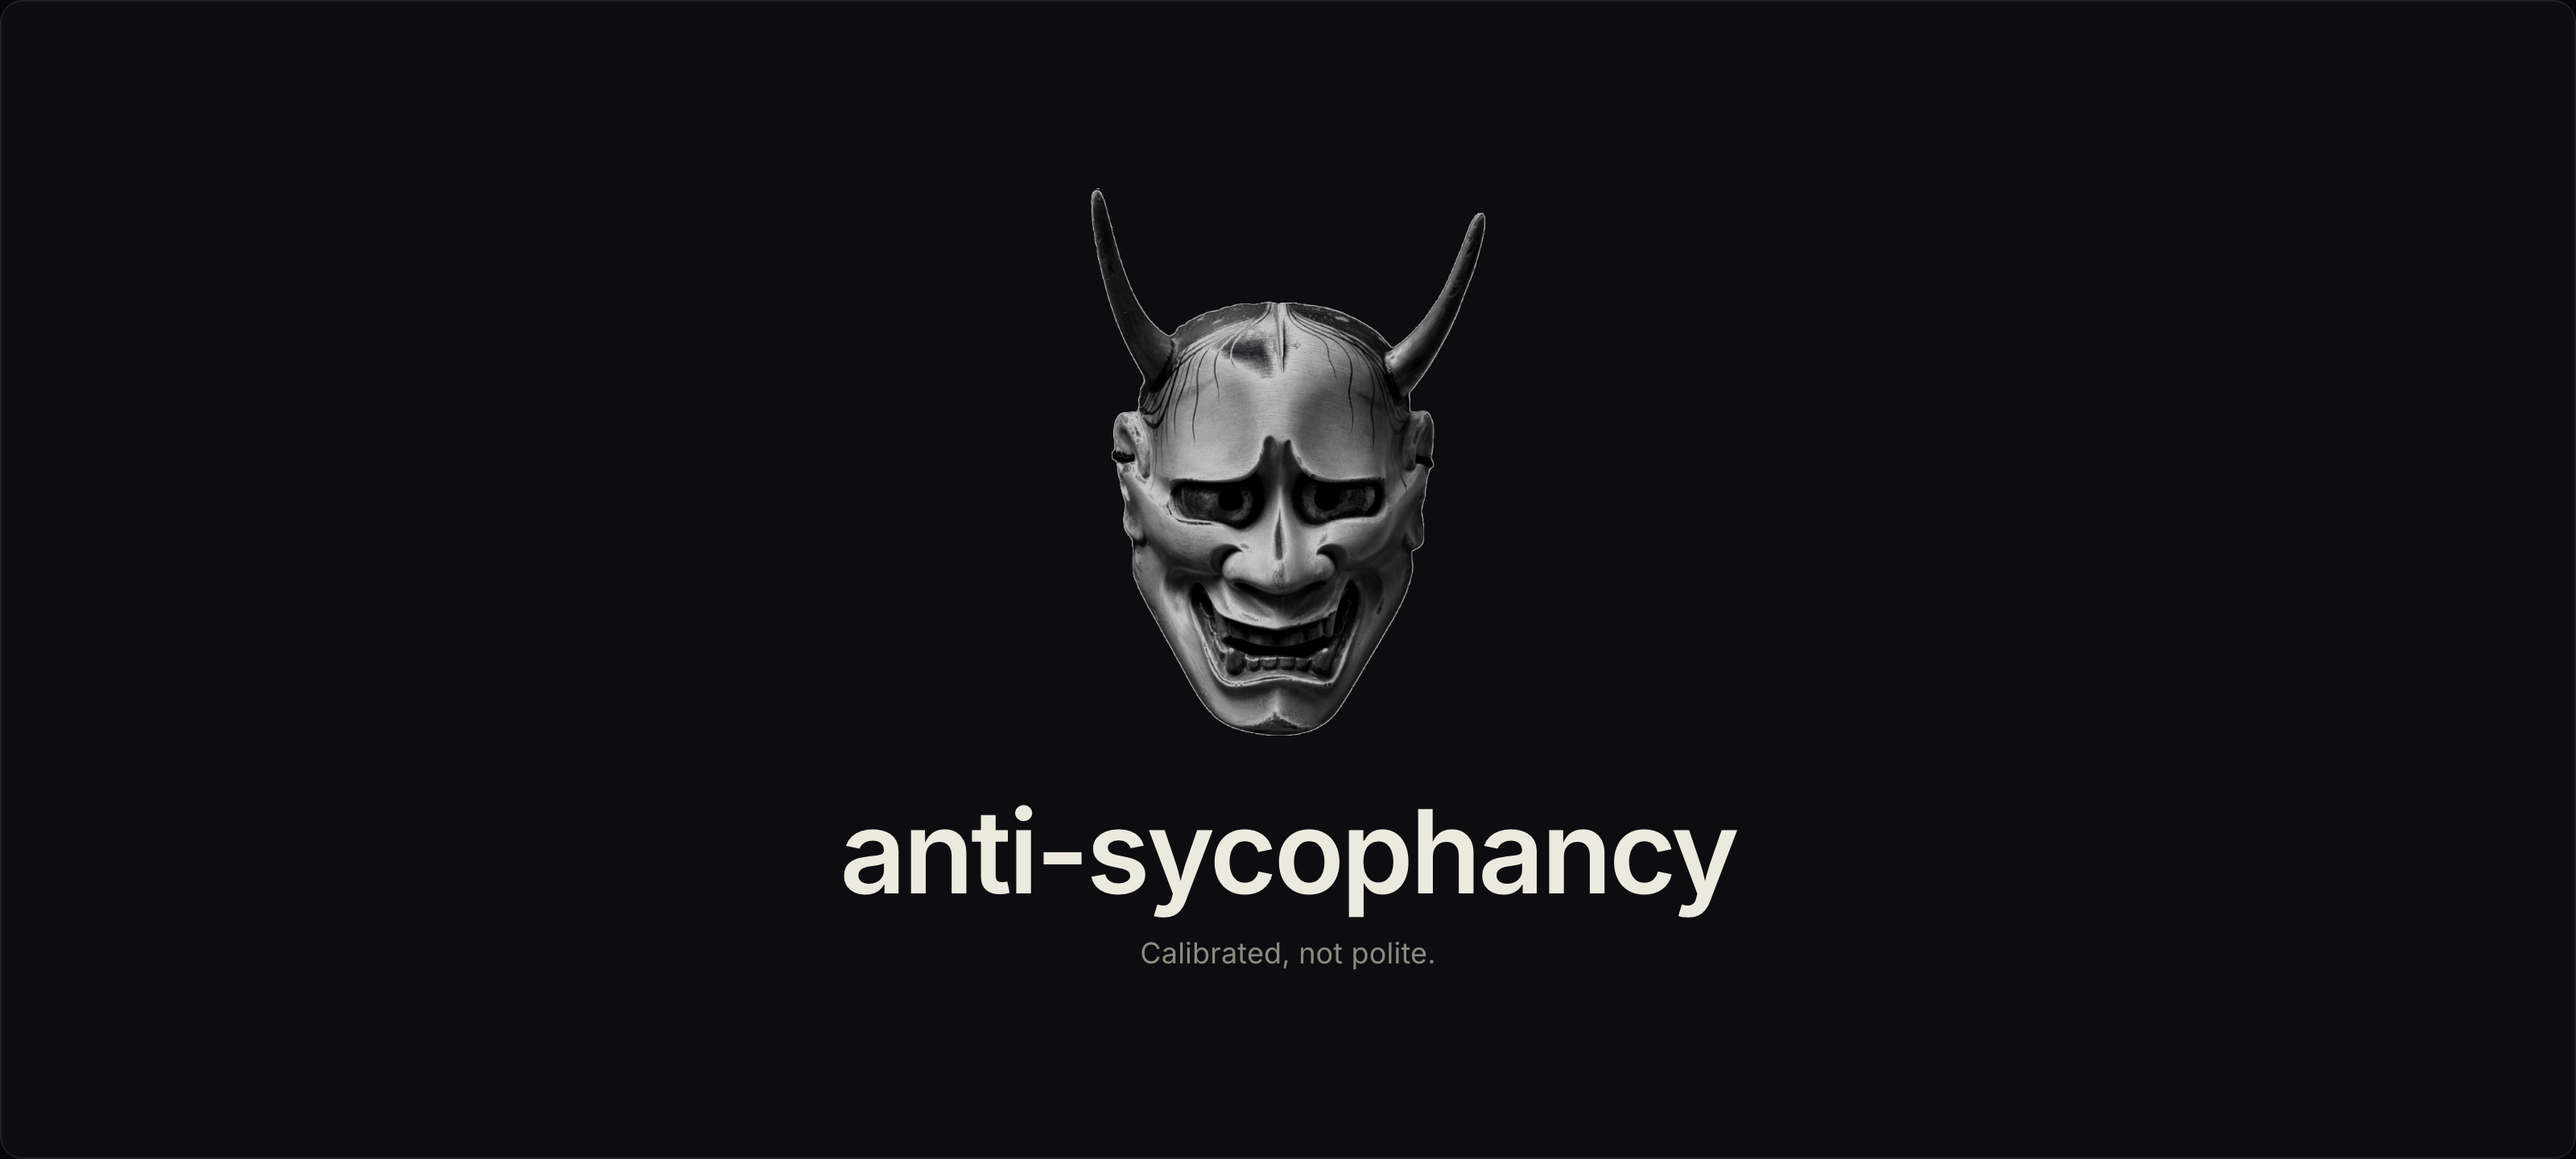
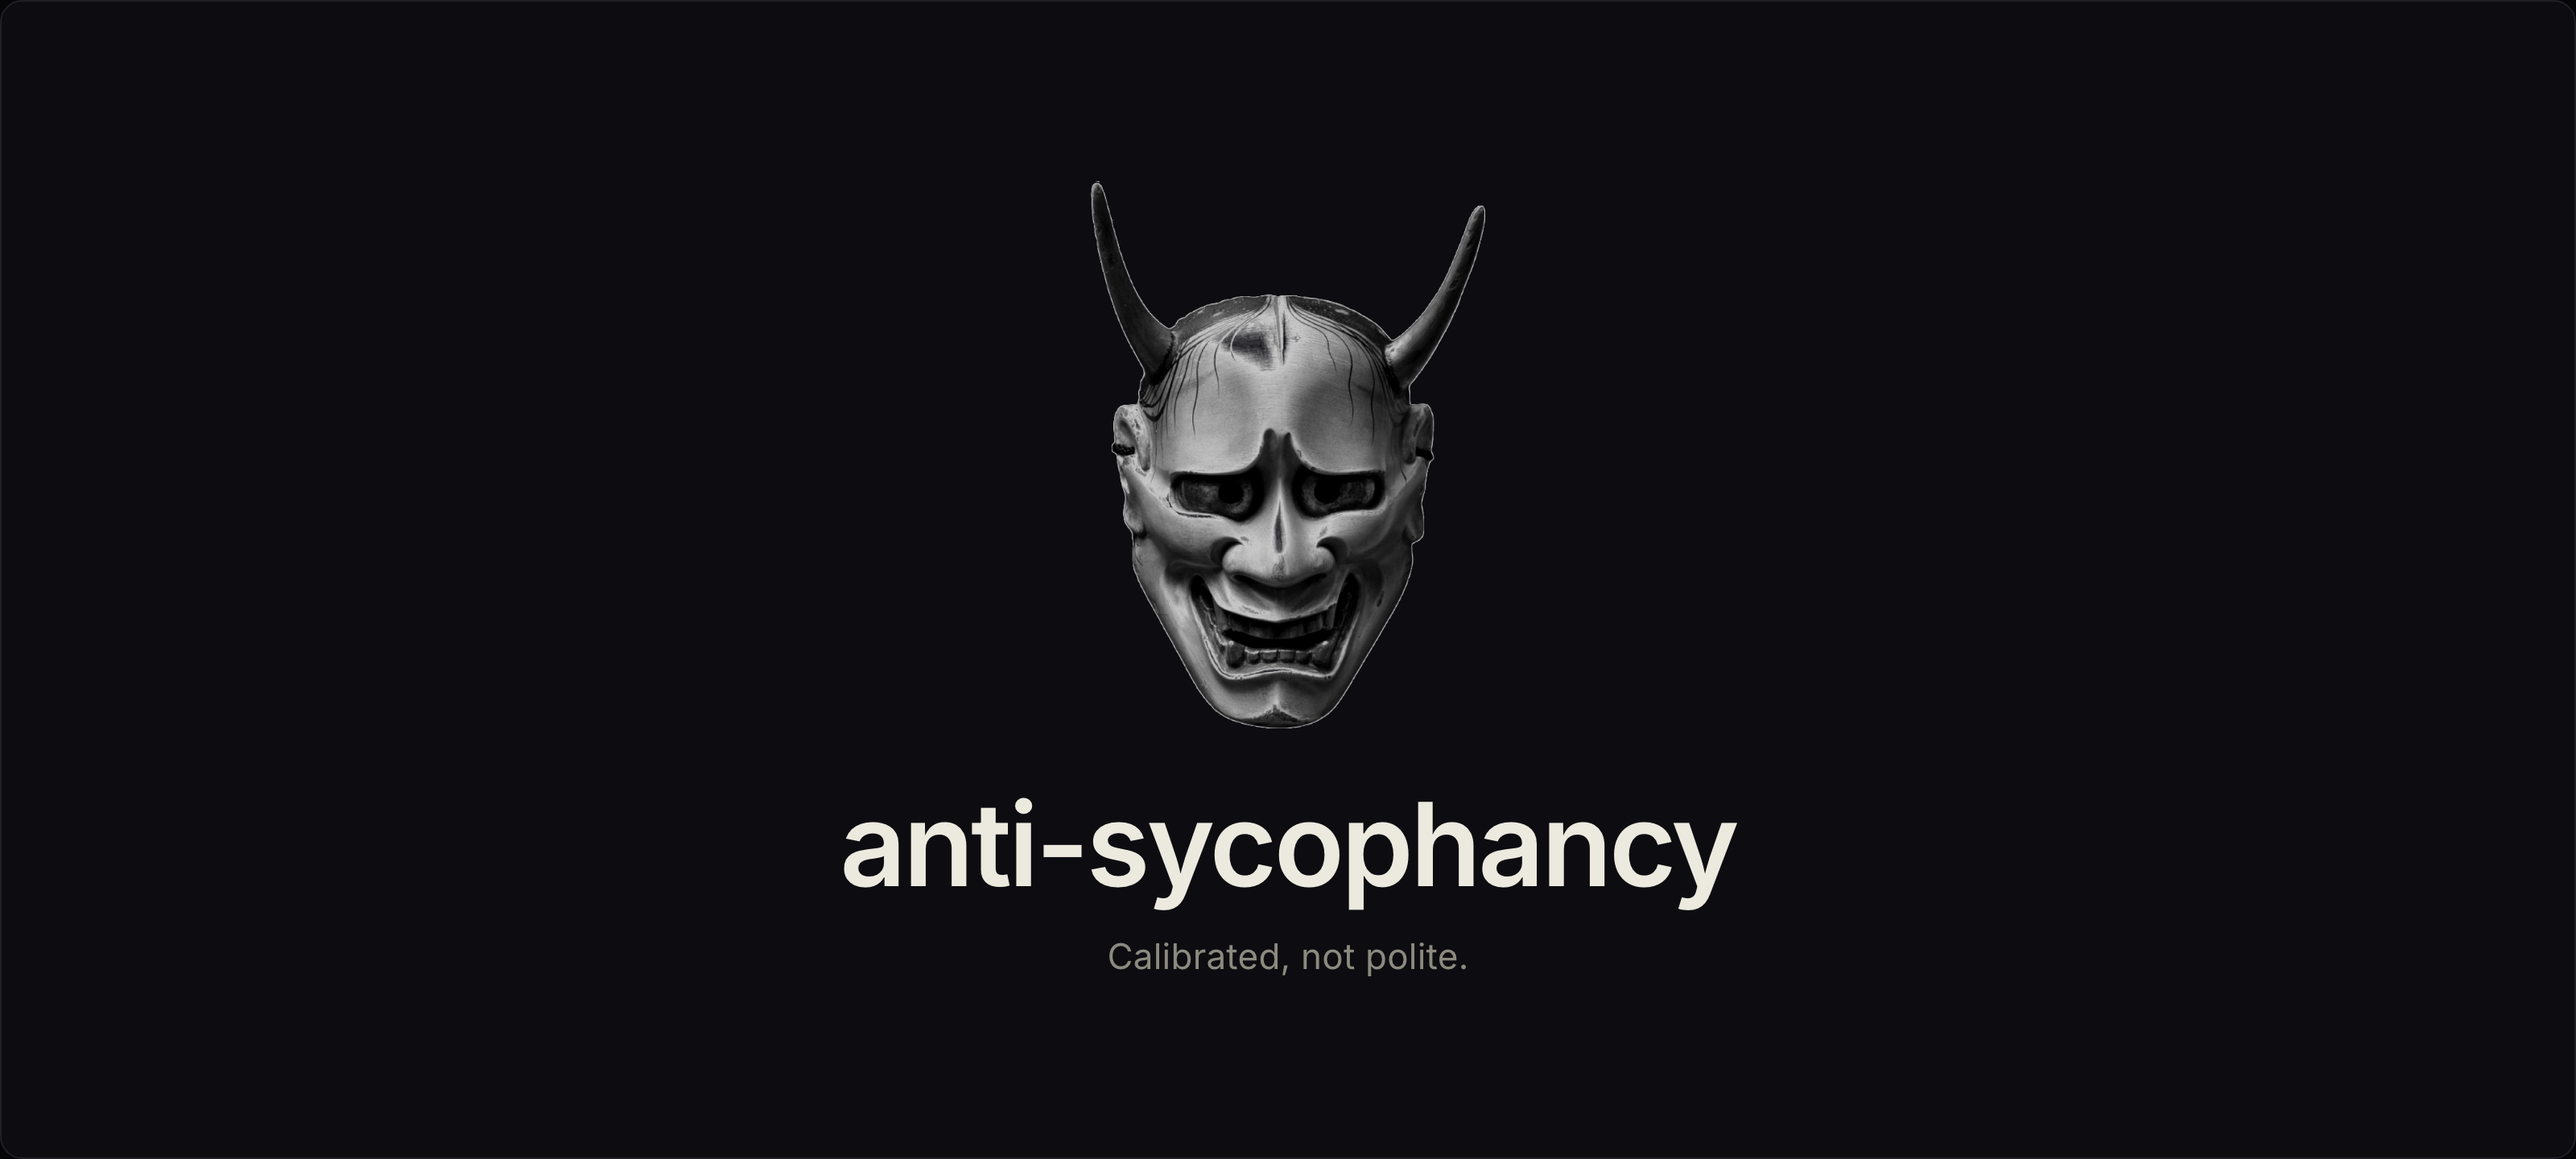
tweak: enlarge tagline in hero (18px → 22px)

diff --git a/hero.html b/hero.html
@@ -64,8 +64,8 @@
   }
 
   .tagline {
-    margin-top: 16px;
-    font-size: 18px;
+    margin-top: 20px;
+    font-size: 22px;
     font-weight: 400;
     letter-spacing: 0.005em;
     color: var(--ink-mute);
